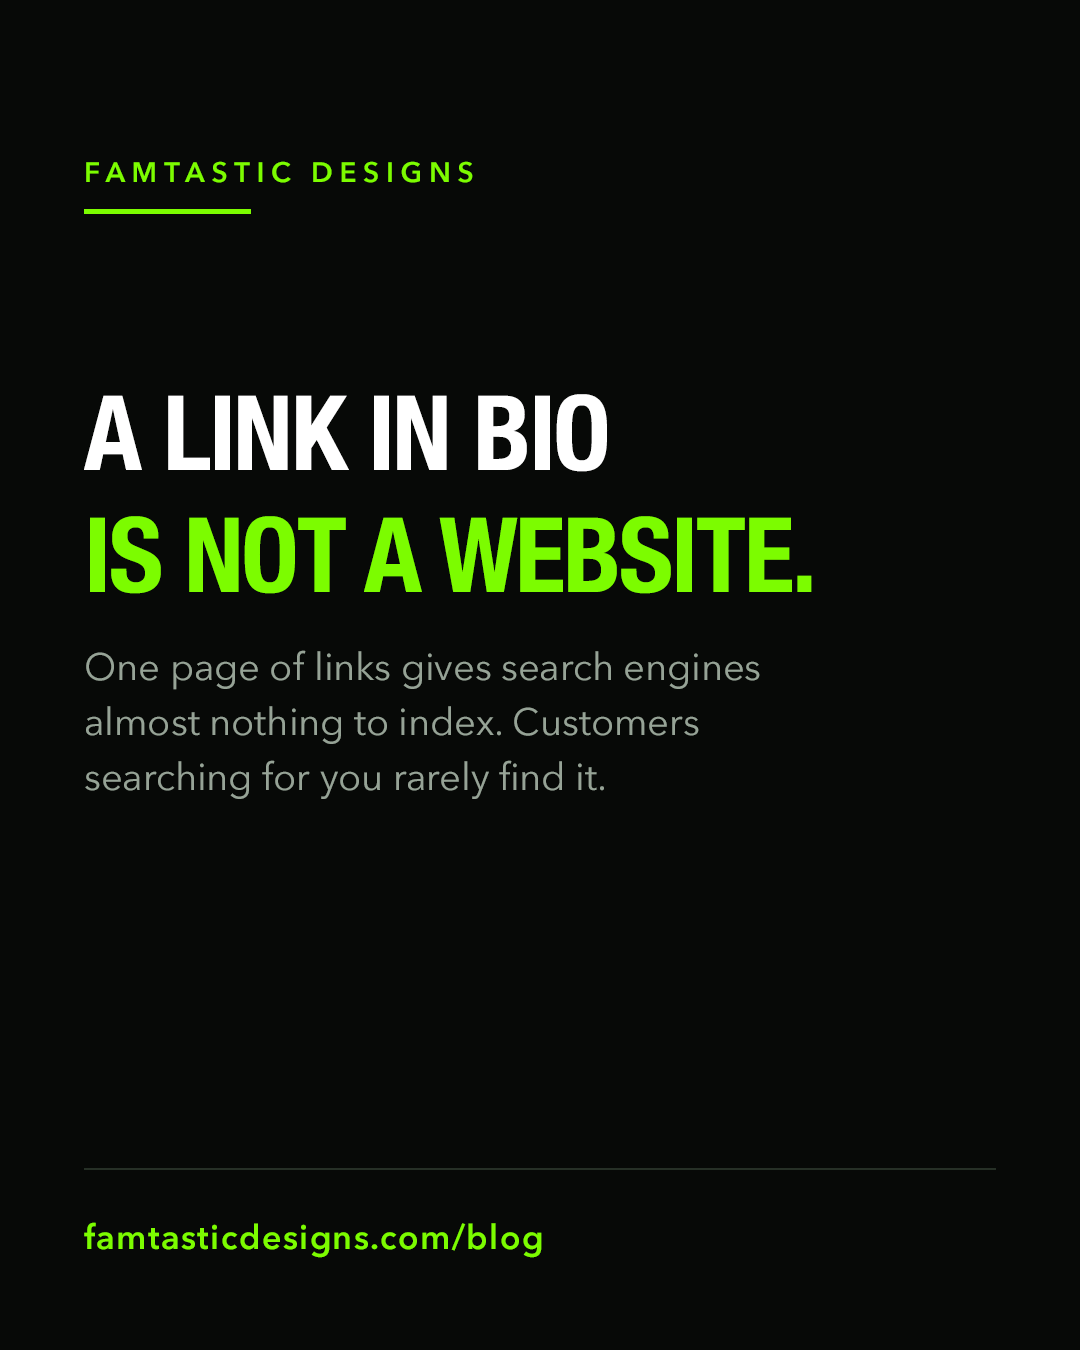
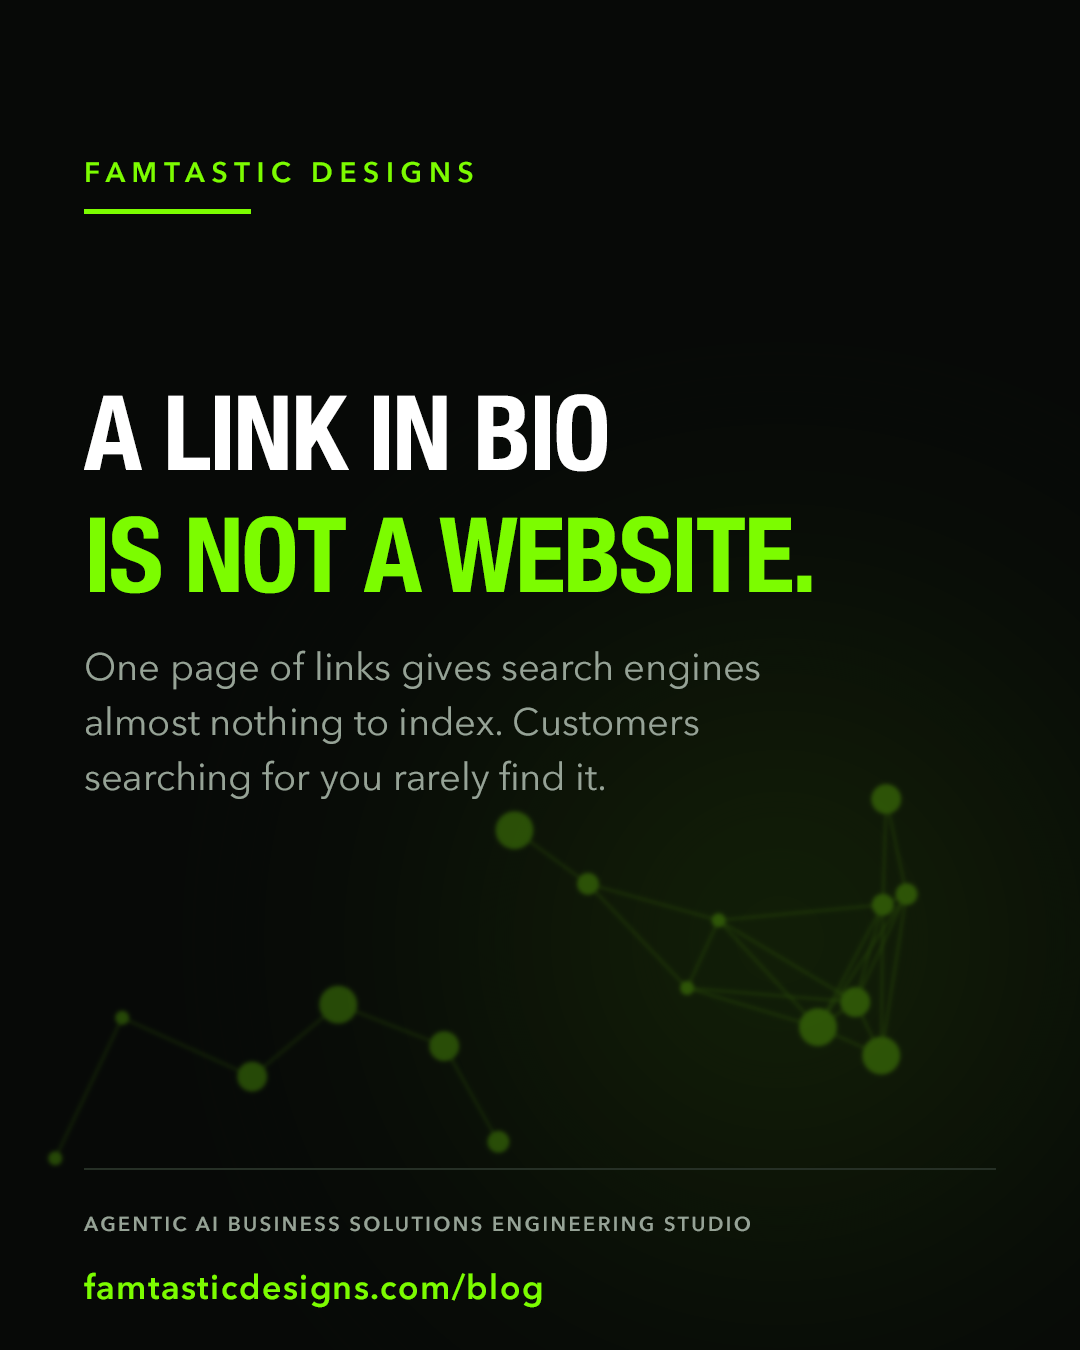
Add layered art system: graphics that dissolve into the ground, type on top
Owner directive: the dark negative space is a design opportunity, not emptiness.
Art should fade INTO the background as an overlay, not sit beside the type as a
stacked block.

Implemented as a composition rule rather than hand-masking. Every art generator
draws bright structure on its own layer, blurs it, then sets SCREEN blend at low
opacity. Against the #070907 ground, SCREEN makes dark pixels vanish and bright
structure bloom, so the graphic dissolves by construction. Art is drawn first,
type always last, so copy never loses contrast.

Three themes, each carrying a different argument:
- nodes: a connected network, the house theme for an engineering studio
- grid:  receding infrastructure, for ownership and platform arguments
- orbit: concentric reach, behind a single short headline
Plus an atmosphere bloom (the one glow Design DNA permits, kept restrained) and
a plate hook so cheap generated imagery composites under the same treatment.

Also carries the studio signature "Agentic AI Business Solutions Engineering
Studio", matching the live site H1. Placed in the signature block deliberately:
VOICE.md bans "agentic" as vocabulary used to impress, and the studio's own name
is the one legitimate use. It must never migrate into a headline or benefit line.

Three ad concepts drawn from the blog series, four platform formats each.

diff --git a/marketing/creative/templates/famtastic-social-frame.jsx b/marketing/creative/templates/famtastic-social-frame.jsx
@@ -67,6 +67,26 @@ var FAM_FORMATS = {
   "wide-16x9":  [1280,  720, 76, 24,  84, 100, 32, 28, 300]   // YouTube thumbnail, X inline
 };
 
+/*
+ * ART REGIONS - where the layered graphic lives in each format.
+ * [x, y, w, h] plus [glowCx, glowCy] for the atmosphere bloom.
+ *
+ * These regions deliberately BLEED UNDER the type. The art is composited with
+ * SCREEN blend at low opacity, so anything approaching the #070907 ground goes
+ * invisible and only the bright structure reads. That is what makes it dissolve
+ * into the dark instead of sitting next to it as a separate block.
+ *
+ * Owner directive 2026-09-04: "the darkness is a perfect design opportunity to
+ * have layered art with graphics and themes that fade into the background -
+ * overlay, not stacked."
+ */
+var FAM_ART_REGIONS = {
+  "story-9x16": [40, 980,  1040, 720, 760, 1300],
+  "feed-4x5":   [40, 760,  1040, 420, 780,  940],
+  "square-1x1": [520, 120,  560, 820, 860,  560],
+  "wide-16x9":  [620,  60,  660, 600, 980,  330]
+};
+
 function famText(doc, content, x, y, size, color, font, tracking, name) {
   var l = doc.artLayers.add();
   l.kind = LayerKind.TEXT;
@@ -88,6 +108,161 @@ function famBar(doc, left, top, w, h, color, name) {
   doc.selection.fill(famColor(color[0], color[1], color[2]), ColorBlendMode.NORMAL, 100);
   doc.selection.deselect();
   return l;
+}
+
+/* ==========================================================================
+ * LAYERED ART SYSTEM
+ *
+ * Every generator draws bright structure on its own layer, blurs it, then sets
+ * SCREEN blend + low opacity. Against a #070907 ground, SCREEN makes dark pixels
+ * vanish entirely and bright pixels bloom - so the graphic fades into the
+ * background by construction rather than by hand-masking. Type is drawn AFTER,
+ * so it always sits on top at full strength.
+ * ========================================================================== */
+
+// A filled polygon on the CURRENT layer.
+function famPoly(doc, pts, color, opacity) {
+  doc.selection.select(pts);
+  doc.selection.fill(famColor(color[0], color[1], color[2]), ColorBlendMode.NORMAL,
+                     (opacity === undefined ? 100 : opacity));
+  doc.selection.deselect();
+}
+
+// ExtendScript has no ellipse selection, so approximate with a polygon.
+function famCircle(doc, cx, cy, r, color, opacity, sides) {
+  var n = sides || 28, pts = [];
+  for (var i = 0; i < n; i++) {
+    var a = (Math.PI * 2 * i) / n;
+    pts.push([cx + Math.cos(a) * r, cy + Math.sin(a) * r]);
+  }
+  famPoly(doc, pts, color, opacity);
+}
+
+// A line of given thickness between two points, as a quad.
+function famLine(doc, x1, y1, x2, y2, thick, color, opacity) {
+  var dx = x2 - x1, dy = y2 - y1;
+  var len = Math.sqrt(dx * dx + dy * dy);
+  if (len < 0.5) return;
+  var nx = (-dy / len) * (thick / 2), ny = (dx / len) * (thick / 2);
+  famPoly(doc, [[x1 + nx, y1 + ny], [x2 + nx, y2 + ny],
+                [x2 - nx, y2 - ny], [x1 - nx, y1 - ny]], color, opacity);
+}
+
+function famFinishArtLayer(layer, blurPx, opacity) {
+  if (blurPx > 0) layer.applyGaussianBlur(blurPx);
+  layer.blendMode = BlendMode.SCREEN;   // dark pixels disappear against the ground
+  layer.opacity = opacity;
+}
+
+// Soft lime bloom. Sells depth on its own and anchors the other themes.
+function famAtmosphere(doc, cx, cy, radius, opacity) {
+  var l = doc.artLayers.add(); l.name = "art-atmosphere";
+  famCircle(doc, cx, cy, radius, FAM.lime, 100, 40);
+  famFinishArtLayer(l, Math.round(radius * 0.55), opacity === undefined ? 14 : opacity);
+  return l;
+}
+
+// Connected node network - reads as a system being engineered. The house theme
+// for "Agentic AI Business Solutions Engineering Studio".
+function famThemeNodes(doc, region, count, seed) {
+  var x = region[0], y = region[1], w = region[2], h = region[3];
+  var l = doc.artLayers.add(); l.name = "art-nodes";
+  var n = count || 16, s = seed || 7, pts = [];
+  for (var i = 0; i < n; i++) {
+    s = (s * 1103515245 + 12345) % 2147483648;
+    var px = x + (s / 2147483648) * w;
+    s = (s * 1103515245 + 12345) % 2147483648;
+    var py = y + (s / 2147483648) * h;
+    pts.push([px, py]);
+  }
+  // Edges first so nodes sit on top of them.
+  for (var a = 0; a < pts.length; a++) {
+    for (var b = a + 1; b < pts.length; b++) {
+      var d = Math.sqrt(Math.pow(pts[a][0] - pts[b][0], 2) + Math.pow(pts[a][1] - pts[b][1], 2));
+      if (d < Math.min(w, h) * 0.42) {
+        famLine(doc, pts[a][0], pts[a][1], pts[b][0], pts[b][1], 2, FAM.lime, 55);
+      }
+    }
+  }
+  for (var c = 0; c < pts.length; c++) {
+    famCircle(doc, pts[c][0], pts[c][1], 7 + (c % 4) * 4, FAM.lime, 100);
+  }
+  famFinishArtLayer(l, 2, 26);
+  return l;
+}
+
+// Receding grid - infrastructure, the thing a real website sits on.
+function famThemeGrid(doc, region, step) {
+  var x = region[0], y = region[1], w = region[2], h = region[3];
+  var l = doc.artLayers.add(); l.name = "art-grid";
+  var gap = step || 78;
+  for (var gx = x; gx <= x + w; gx += gap) famLine(doc, gx, y, gx, y + h, 1.5, FAM.lime, 40);
+  var row = 0;
+  for (var gy = y; gy <= y + h; gy += gap) {
+    famLine(doc, x, gy, x + w, gy, 1.5, FAM.lime, Math.max(8, 60 - row * 6));
+    row++;
+  }
+  famFinishArtLayer(l, 1, 20);
+  return l;
+}
+
+// Concentric arcs - orbit/reach. Good behind a single short headline.
+function famThemeOrbit(doc, region, rings) {
+  var cx = region[0] + region[2] / 2, cy = region[1] + region[3] / 2;
+  var l = doc.artLayers.add(); l.name = "art-orbit";
+  var n = rings || 5, maxR = Math.min(region[2], region[3]) * 0.62;
+  for (var i = 1; i <= n; i++) {
+    var r = (maxR / n) * i, n2 = 64;
+    for (var k = 0; k < n2; k++) {
+      var a1 = (Math.PI * 2 * k) / n2, a2 = (Math.PI * 2 * (k + 1)) / n2;
+      famLine(doc, cx + Math.cos(a1) * r, cy + Math.sin(a1) * r,
+                   cx + Math.cos(a2) * r, cy + Math.sin(a2) * r, 2, FAM.lime, 45);
+    }
+  }
+  famFinishArtLayer(l, 2, 22);
+  return l;
+}
+
+// Place a generated plate (Gemini / gpt-image-2 / HeyGen frame) and dissolve it
+// into the ground the same way. Plates must carry NO baked-in text.
+function famPlate(doc, path, opacity, blurPx) {
+  var f = new File(path);
+  if (!f.exists) return null;
+  var before = doc.artLayers.length;
+  var idl = charIDToTypeID("Plc ");
+  var d = new ActionDescriptor();
+  d.putPath(charIDToTypeID("null"), f);
+  d.putBoolean(charIDToTypeID("Lnkd"), false);
+  executeAction(idl, d, DialogModes.NO);
+  if (doc.artLayers.length <= before) return null;
+  var l = doc.activeLayer;
+  l.name = "art-plate";
+  famFinishArtLayer(l, blurPx === undefined ? 0 : blurPx, opacity === undefined ? 38 : opacity);
+  return l;
+}
+
+function famApplyArt(doc, key, cfg) {
+  var region = FAM_ART_REGIONS[key];
+  if (!region) return [];
+  var applied = [];
+  var box = [region[0], region[1], region[2], region[3]];
+
+  if (cfg.atmosphere !== false) {
+    // Keep the bloom as depth, not as a green wash over the ground. Design DNA
+    // allows ONE glow; this is it, so it stays restrained.
+    famAtmosphere(doc, region[4], region[5], Math.round(Math.min(box[2], box[3]) * 0.70),
+                  cfg.atmosphereOpacity === undefined ? 10 : cfg.atmosphereOpacity);
+    applied.push("atmosphere");
+  }
+  if (cfg.plate) {
+    if (famPlate(doc, cfg.plate, cfg.plateOpacity, cfg.plateBlur)) applied.push("plate");
+    else applied.push("plate MISSING: " + cfg.plate);
+  }
+  var theme = cfg.theme || "nodes";
+  if (theme === "nodes")      { famThemeNodes(doc, box, cfg.nodeCount, cfg.seed); applied.push("nodes"); }
+  else if (theme === "grid")  { famThemeGrid(doc, box, cfg.gridStep);             applied.push("grid"); }
+  else if (theme === "orbit") { famThemeOrbit(doc, box, cfg.rings);               applied.push("orbit"); }
+  return applied;
 }
 
 // Compressed export. doc.saveAs with PNGSaveOptions is ~130x larger.
@@ -120,6 +295,9 @@ function renderFamtasticFrames(cfg) {
                        ColorBlendMode.NORMAL, 100);
     doc.selection.deselect();
 
+    // ART FIRST, TYPE ON TOP. Never the other way around.
+    var art = famApplyArt(doc, key, cfg);
+
     famText(doc, cfg.eyebrow, M, Math.round(H * 0.135), ES, FAM.lime, FONT_UI_BOLD, 240, "eyebrow");
     famBar(doc, M, Math.round(H * 0.155), Math.round(W * 0.155),
            Math.max(4, Math.round(H * 0.004)), FAM.lime, "rule-top");
@@ -134,11 +312,24 @@ function renderFamtasticFrames(cfg) {
     }
 
     famBar(doc, M, H - Math.round(H * 0.135), W - (M * 2), 2, FAM.hair, "rule-bot");
-    famText(doc, cfg.footer, M, H - Math.round(H * 0.075), FS, FAM.lime, FONT_UI_BOLD, 40, "footer");
+
+    /*
+     * Studio signature. Carried as IDENTITY, never as a claim.
+     * VOICE.md:122 bans "agentic" as vocabulary used to impress; this is the
+     * studio's own name, which is the one legitimate use. It belongs in the
+     * signature block and must never migrate into a headline or a benefit line.
+     * Canonical wording matches the live site H1 and title tag.
+     */
+    var studio = cfg.studio || "AGENTIC AI BUSINESS SOLUTIONS ENGINEERING STUDIO";
+    if (studio !== "none") {
+      famText(doc, studio, M, H - Math.round(H * 0.088),
+              Math.max(14, Math.round(FS * 0.58)), FAM.dim, FONT_UI_BOLD, 120, "studio");
+    }
+    famText(doc, cfg.footer, M, H - Math.round(H * 0.038), FS, FAM.lime, FONT_UI_BOLD, 40, "footer");
 
     var path = cfg.outDir + cfg.slug + "-" + key + ".png";
     famExportPNG(doc, path);
-    written.push(key + " " + W + "x" + H + " -> " + path);
+    written.push(key + " " + W + "x" + H + " art[" + art.join(",") + "] -> " + path);
     doc.close(SaveOptions.DONOTSAVECHANGES);
   }
   return { slug: cfg.slug, written: written };
